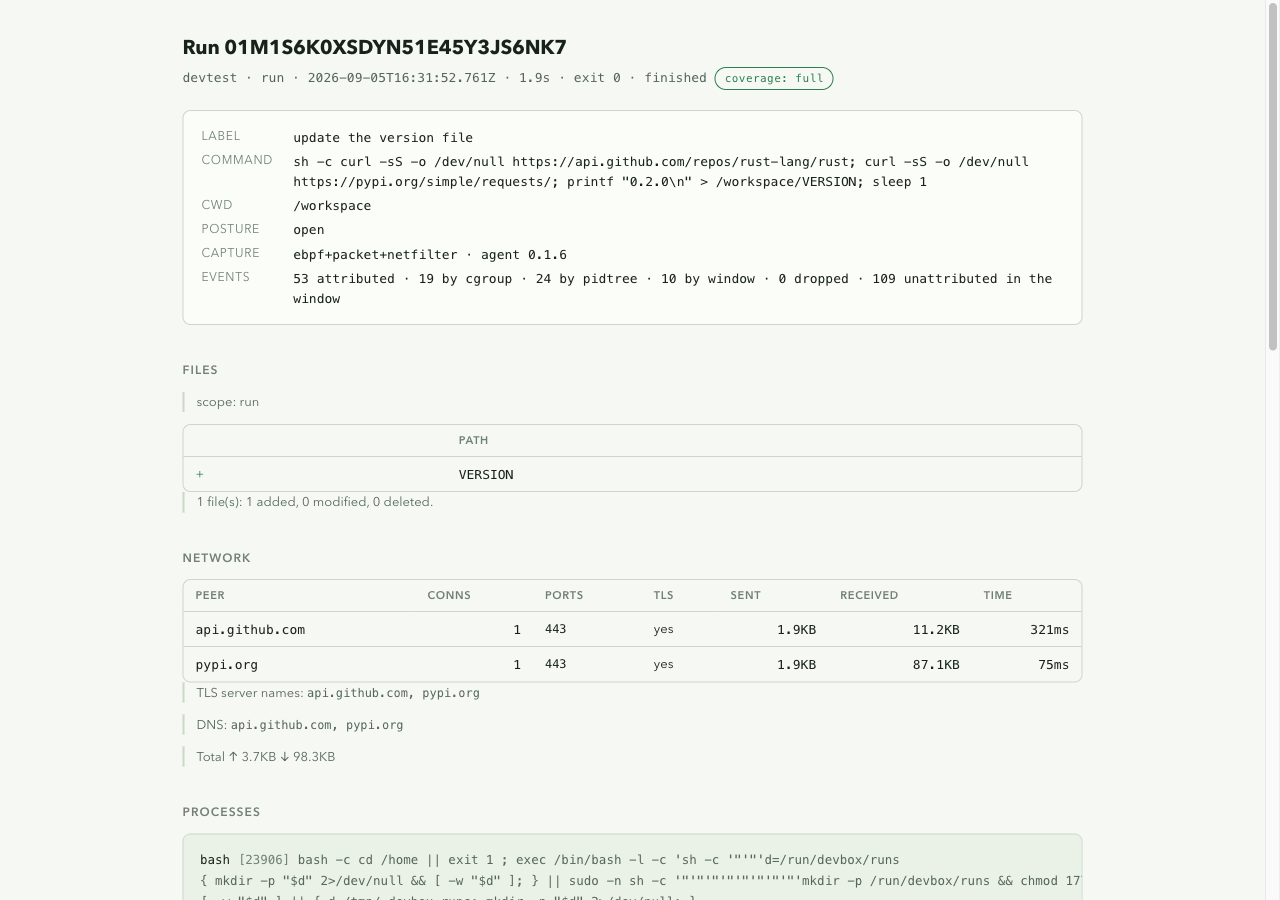
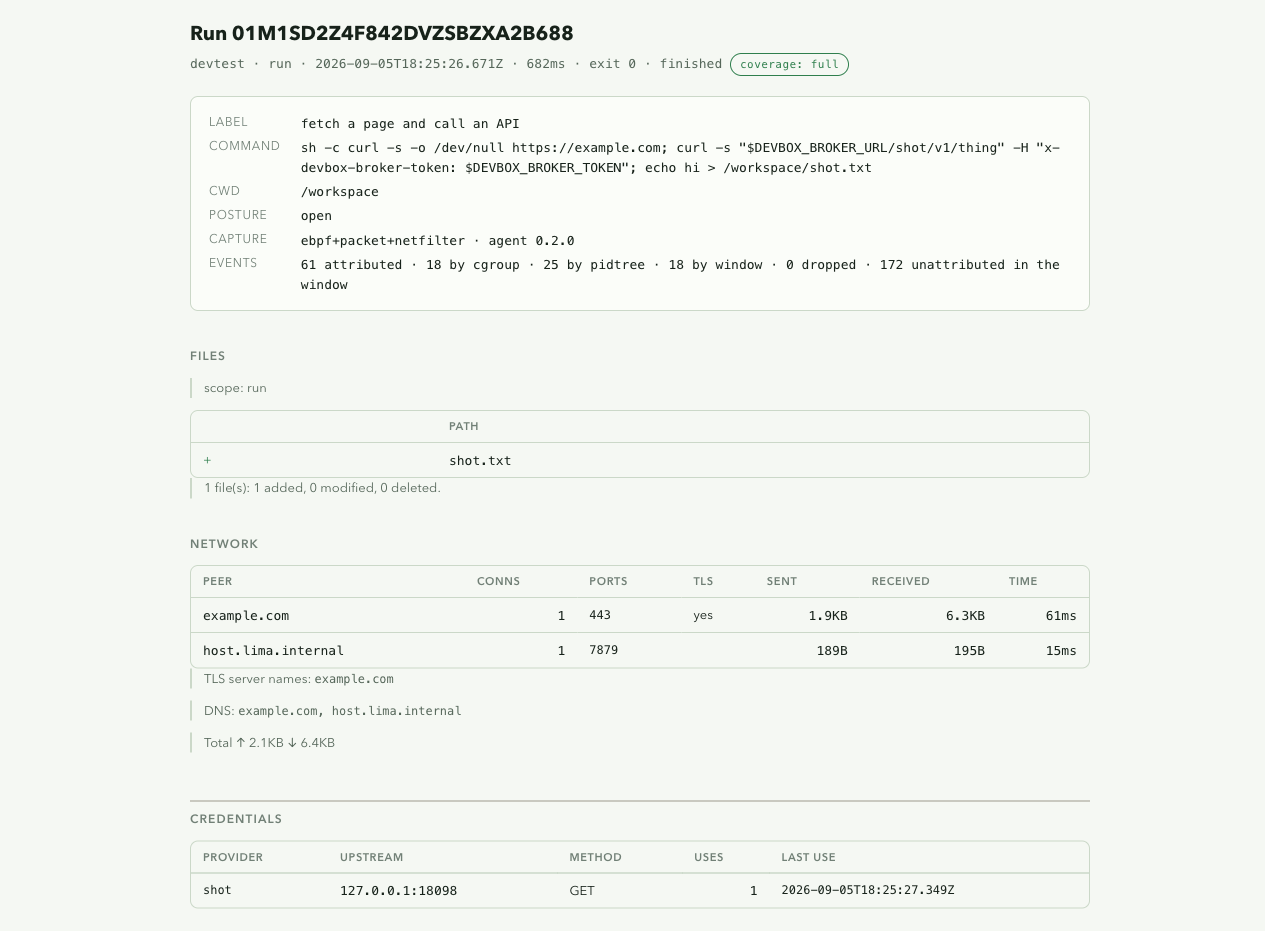
docs: the screenshot and the report sections, after W2-5
W2-5 changed what a report says, so the three places that describe one
were out of date the moment it merged.

The screenshot is retaken from a run that actually uses a credential:
`devbox secret set shot` against a local echo upstream, then one run that
fetches a page and calls the brokered API. It shows what v5 is for --
`scope: run` over one file, two peers with settled bytes (one of them the
broker hop), and a populated Credentials table.

It is composed from two crops of that one page, with the elision drawn as
a rule rather than left implied. The reason is worth recording: with a
broker configured, the Processes section prints the box's
`DEVBOX_BROKER_TOKEN`, because `broker::with_env` puts it in the guest
argv and the outermost `bash -c cd /home …` row carries that argv
verbatim. So the section could not be in the frame, and -- more to the
point -- a run report on a box with a broker cannot currently be shared as
it stands. Reported separately; not this branch's to fix.

The prose follows the code, checked against `src/report/{markdown,model}.rs`
rather than the brief: the outside-overlay table is `directory | opens |
files` and `opens` counts capture events, not `write(2)` calls; the
wrapper folds to one `[devbox wrapper]` row and is folded rather than
dropped; a partly refused credential reads `2 (1 denied)`. The README's
Credentials row stops saying the section is unpopulated, because it is
not any more.
[…]

diff --git a/README.md b/README.md
@@ -12,13 +12,13 @@ every host it reached, every process it spawned, every credential it used.
 Then it hands you the receipt.
 
 ```console
-$ devbox run --label "update the version file" -- sh -c 'curl -sS -o /dev/null https://api.github.com/repos/rust-lang/rust; curl -sS -o /dev/null https://pypi.org/simple/requests/; printf "0.2.0\n" > /workspace/VERSION; sleep 1'
-run 01M1S6K0XSDYN51E45Y3JS6NK7 · 1.9s · exit 0 · finished
+$ devbox run --label "fetch a page and call an API" -- sh -c 'curl -s -o /dev/null https://example.com; curl -s "$DEVBOX_BROKER_URL/shot/v1/thing" -H "x-devbox-broker-token: $DEVBOX_BROKER_TOKEN"; echo hi > /workspace/shot.txt'
+run 01M1SD2Z4F842DVZSBZXA2B688 · 682ms · exit 0 · finished
   files    1 changed (1 added, 0 modified, 0 deleted) · scope: run
-  network  2 peers · 2 DNS · ↑3.7KB ↓98.3KB
-  process  24 in the tree
-  coverage full (ebpf+packet+netfilter) · 53 events · 0 dropped
-  report   ~/.devbox/runs/devtest/01M1S6K0XSDYN51E45Y3JS6NK7/report.html
+  network  2 peers · 2 DNS · ↑2.1KB ↓6.4KB
+  process  16 in the tree
+  coverage full (ebpf+packet+netfilter) · 61 events · 0 dropped
+  report   ~/.devbox/runs/devtest/01M1SD2Z4F842DVZSBZXA2B688/report.html
 ```
 
 That is a real run on a real box, verbatim except for `$HOME`. The command is a
@@ -76,7 +76,7 @@ devbox secret set anthropic --from-env ANTHROPIC_API_KEY
 The value goes into the host keychain. It is never written into the box, into
 its environment, or into any file the box can read. A host-side broker holds it
 and injects it per request; the box gets a per-box token instead, and every use
-is recorded as a `credential` event — `devbox watch --type credential`.
+lands in the run's report and in `devbox watch --type credential`.
 
 ### Run the agent
 
@@ -105,16 +105,21 @@ disagree.
 
 ## What you get
 
-![The run report page in the devbox console: run identity and coverage, the files the run changed, and the peers it reached with byte counts](docs/screenshot-console.png)
+![The run report page in the devbox console: run identity and coverage, the file the run changed under scope run, the two peers it reached with byte counts, and the brokered credential it used](docs/screenshot-console.png)
+
+That is the report for the run at the top of this page. The rule across the
+middle is an elision: the Processes section sits between Network and
+Credentials and is left out here, because on a box with a broker configured it
+contains that box's broker token.
 
 Every run produces one report with these sections.
 
 | Section | What it answers |
 |---|---|
-| **Files** | What this run wrote, from the diff of the checkpoint taken before it against the checkpoint taken after — not the box's lifetime of changes. The report says which scope it used. |
+| **Files** | What this run wrote, from the diff of the checkpoint taken before it against the checkpoint taken after — not the box's lifetime of changes. The report says which scope it used. A second table, **Writes outside the workspace overlay**, names the directories the run wrote to that `devbox commit` would never sync — a package cache, a config file in `$HOME` — by directory, with opens and file counts. |
 | **Network** | One row per peer: connections, ports, whether TLS was seen, bytes each way, and how long the connection lasted. Bytes are settled at `close`, so an open connection reads 0 rather than a guess. TLS server names and DNS answers are listed under it. |
-| **Processes** | The process tree the run spawned, by pid, including devbox's own wrapper. Nothing is filtered out for looking untidy. |
-| **Credential use** | Which brokered credential the run used, how often, and first use. **Not yet populated:** the broker writes `credential` events (read them with `devbox watch --type credential`), but the report does not aggregate them yet, and the section says so rather than printing "none used". |
+| **Processes** | The process tree the run spawned, by pid. Devbox's own wrapper collapses to a single `[devbox wrapper]` row — folded, not dropped, because a tree that quietly lost three processes would not line up with `devbox watch --tree`. |
+| **Credential use** | Which brokered credential the run reached for, the upstream it went to, the methods, how many times, and when it was last used. A refusal is counted and shown — `2 (1 denied)` — because a line where every use was denied is the policy working, not the credential being used. |
 | **Coverage** | Which capture backends were live, the agent version, how many events were attributed to this run and by which rule, how many were dropped, and how many events in the same window belonged to something else. |
 
 Read them together and `devbox behavior diff` answers "what did this run do

diff --git a/docs/quickstart-v5.md b/docs/quickstart-v5.md
@@ -32,12 +32,12 @@ devbox run -- claude
 Everything about that command is recorded and rendered:
 
 ```
-run 01M1S6K0XSDYN51E45Y3JS6NK7 · 1.9s · exit 0 · finished
+run 01M1SD2Z4F842DVZSBZXA2B688 · 682ms · exit 0 · finished
   files    1 changed (1 added, 0 modified, 0 deleted) · scope: run
-  network  2 peers · 2 DNS · ↑3.7KB ↓98.3KB
-  process  24 in the tree
-  coverage full (ebpf+packet+netfilter) · 53 events · 0 dropped
-  report   ~/.devbox/runs/devtest/01M1S6K0XSDYN51E45Y3JS6NK7/report.html
+  network  2 peers · 2 DNS · ↑2.1KB ↓6.4KB
+  process  16 in the tree
+  coverage full (ebpf+packet+netfilter) · 61 events · 0 dropped
+  report   ~/.devbox/runs/devtest/01M1SD2Z4F842DVZSBZXA2B688/report.html
 ```
 
 Useful flags:
@@ -72,10 +72,17 @@ can attribute events to them — see [observability.md](observability.md#run-att
 | Section | Reads |
 |---|---|
 | Files | The diff of the checkpoint taken before the run against the one taken after. `scope: run` means exactly that; `scope: box` would mean the whole box's overlay. |
+| Writes outside the workspace overlay | Directories the run wrote to that `devbox commit` would never sync — `~/.cache/uv`, `/etc` — by directory, with opens and file counts. The overlay only protects `/workspace`; this is the part of the run that escaped it. |
 | Network | One row per peer — connections, ports, TLS seen, bytes each way, duration. Plus TLS server names and DNS answers. |
-| Processes | The process tree, by pid, wrapper included. |
-| Credentials | Which brokered credential was used and how often. Not wired yet — the section prints an explicit "not recorded", and `devbox watch --type credential` is where the events are. |
+| Processes | The process tree, by pid. Devbox's own wrapper is folded into one `[devbox wrapper]` row, so the root of the tree is your command. |
+| Credentials | Each brokered credential the run reached for: provider, upstream, methods, uses, last use. `2 (1 denied)` means the scope refused one of them. |
 | Coverage | Capture backends, agent version, events attributed and by which rule, events dropped, and events in the window that belonged to something else. |
+
+The outside-overlay table is the one worth reading twice. `devbox discard`
+undoes `/workspace`; it does not undo a package the run installed into `$HOME`,
+and until v5 the report did not say that had happened. Its `opens` column counts
+capture events (the probe sees `open`/`create`, not each `write(2)`), so a 64 KB
+`dd` into one file counts as one.
 
 Two numbers surprise people the first time:
 
